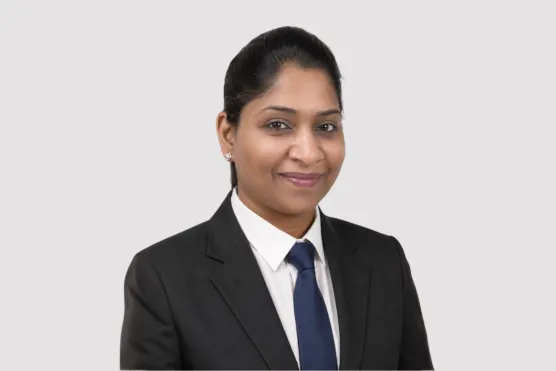
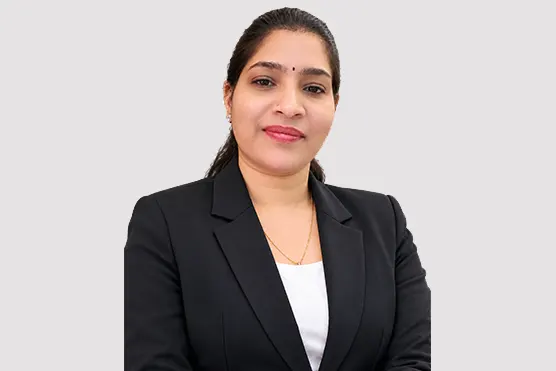
sdgvdsg

Changed region(s): [[0.214, 0.0, 0.795, 1.0], [0.3975, 0.6819, 0.4281, 0.7412], [0.3669, 0.6226, 0.3975, 0.6523]]

diff --git a/digitalcard/manishsingh/index.html b/digitalcard/manishsingh/index.html
@@ -2821,8 +2821,8 @@
                                             <div style="height:5px;"></div>
                                             <div style="clear:both"></div>
                                             <a href="https://www.facebook.com/Technofra" target="_blank" class="iconButton"><i class="fab fa-facebook-f" style="background:#3b5998;"></i><span>Facebook</span></a>
-                                            <a href="https://x.com/i/flow/login?redirect_after_login=%2FTechnofra_" target="_blank" class="iconButton"><i class="fa fa-twitter" style="background:#1da1f2;"></i><span>Twitter</span></a><a href="https://www.linkedin.com/company/technofra" target="_blank" class="iconButton"><i class="fab fa-linkedin-in" style="background:#0077b5;"></i><span>LinkedIn</span></a>
-                                            <a href="https://www.instagram.com/technofra_company/" target="_blank" class="iconButton"><i class="fab fa-instagram" style="background:#b51ca2;"></i><span>instragram</span></a>
+                                            <a href="https://x.com/Technofra_" target="_blank" class="iconButton"><i class="fa fa-twitter" style="background:#1da1f2;"></i><span>Twitter</span></a><a href="https://www.linkedin.com/company/technofra" target="_blank" class="iconButton"><i class="fab fa-linkedin-in" style="background:#0077b5;"></i><span>LinkedIn</span></a>
+                                            <a href="https://www.instagram.com/technofra.company/" target="_blank" class="iconButton"><i class="fab fa-instagram" style="background:#b51ca2;"></i><span>instragram</span></a>
                                             <a href="https://www.youtube.com/@technofra1" target="_blank" class="iconButton"><i class=" fab fa-brands fa-youtube" style="background:#cb2027;"></i><span>YouTube</span></a>
                                             <div style="height:20px;"></div>
 

diff --git a/email-signature/index.html b/email-signature/index.html
@@ -80,8 +80,8 @@
                 <span class="manish co">Our Social Community</span>
                 <div class="social-media">
                     <a href="https://www.facebook.com/Technofra/" target="_blank" class="scsoc"><img src="https://technofra.com/email-signature/images/1.png" /></a>
-                    <a href="https://www.instagram.com/technofra_company/" target="_blank" class="scsoc"><img src="https://technofra.com/email-signature/images/2.png" /></a>
-                    <a href="https://x.com/technofra" target="_blank" class="scsoc"><img src="https://technofra.com/email-signature/images/3.png" /></a>
+                    <a href="https://www.instagram.com/technofra.company/" target="_blank" class="scsoc"><img src="https://technofra.com/email-signature/images/2.png" /></a>
+                    <a href="https://x.com/Technofra_" target="_blank" class="scsoc"><img src="https://technofra.com/email-signature/images/3.png" /></a>
                     <a href="https://hk.linkedin.com/company/technofra" target="_blank" class="scsoc"><img src="https://technofra.com/email-signature/images/4.png" /></a>
                     <a href="https://www.google.com/search?q=technofra&rlz=1C1CHZN_enIN1022IN1022&oq=technofra&gs_lcrp=EgZjaHJvbWUqCggAEAAY4wIYgAQyCggAEAAY4wIYgAQyBggBEEUYPDIGCAIQRRg8MgYIAxBFGDwyEAgEEC4YrwEYxwEYgAQYjgUyBggFEEUYPDIGCAYQRRhBMgYIBxBFGD3SAQgyNDE1ajBqN6gCALACAA&sourceid=chrome&ie=UTF-8" target="_blank" class="scsoc"><img src="https://technofra.com/email-signature/images/5.png" /></a>
                     <a href="https://wa.me/+919702395473" target="_blank" class="scsoc"><img src="https://technofra.com/email-signature/images/6.png" /></a>

diff --git a/khushiyadav/index.html b/khushiyadav/index.html
@@ -118,7 +118,7 @@
                                     title="FACEBOOK">Facebook</a>
                             </li>
                             <li>
-                                <a href="https://www.instagram.com/technofra_company/"
+                                <a href="https://www.instagram.com/technofra.company/"
                                     class="fa fa-instagram tooltip-social" title="INSTAGRAM">Instagram</a>
                             </li>
                             <li>
@@ -326,7 +326,7 @@
 
                     </div>
                     <div class="platform instagram">
-                        <a href="https://www.instagram.com/technofra_company/">
+                        <a href="https://www.instagram.com/technofra.company/">
                             <i class="fab fa fa-instagram tooltip-social"></i>
                             <p>Instagram</p>
                         </a>

diff --git a/navbar.php b/navbar.php
@@ -388,7 +388,7 @@ $stickyHeaderLogoUrl = $stickyHeaderLogo . '?v=' . $logoAssetVersion;
             <li><a href="https://www.facebook.com/Technofra/" title="Facebook" target="_blank"><i class="fab fa-facebook-f"></i></a></li>
             <li><a href="https://x.com/Technofra_" title="X" target="_blank"><i class="fa-brands fa-x-twitter"></i></a></li>
             <li><a href="https://hk.linkedin.com/company/technofra" title="LinkedIn" target="_blank"><i class="fab fa-linkedin-in"></i></a></li>
-            <li><a href="https://www.instagram.com/technofra.company/" title="Instagram" target="_blank"><i class="fab fa-youtube"></i></a></li>
+            <li><a href="https://www.instagram.com/technofra.company/" title="Instagram" target="_blank"><i class="fab fa-instagram"></i></a></li>
         </ul>
     </div>
 </div>
@@ -436,7 +436,7 @@ $stickyHeaderLogoUrl = $stickyHeaderLogo . '?v=' . $logoAssetVersion;
             <li><a href="https://www.facebook.com/Technofra/" title="Facebook" target="_blank"><i class="fab fa-facebook-f"></i></a></li>
             <li><a href="https://x.com/Technofra_" title="X" target="_blank"><i class="fa-brands fa-x-twitter"></i></a></li>
             <li><a href="https://hk.linkedin.com/company/technofra" title="LinkedIn" target="_blank"><i class="fab fa-linkedin-in"></i></a></li>
-            <li><a href="https://www.instagram.com/technofra.company/" title="Instagram" target="_blank"><i class="fab fa-youtube"></i></a></li>
+            <li><a href="https://www.instagram.com/technofra.company/" title="Instagram" target="_blank"><i class="fab fa-instagram"></i></a></li>
         </ul>
         <a href="contact.php" title="Contact Us" class="ibt-btn ibt-btn-outline-3 ibt-btn-rounded">
             <span>Enquiry Now</span>
@@ -571,7 +571,7 @@ $stickyHeaderLogoUrl = $stickyHeaderLogo . '?v=' . $logoAssetVersion;
                     <li><a href="https://www.facebook.com/Technofra/" title="Facebook" target="_blank"><i class="fab fa-facebook-f"></i></a></li>
                     <li><a href="https://x.com/Technofra_" title="X" target="_blank"><i class="fa-brands fa-x-twitter"></i></a></li>
                     <li><a href="https://hk.linkedin.com/company/technofra" title="LinkedIn" target="_blank"><i class="fab fa-linkedin-in"></i></a></li>
-                    <li><a href="https://www.instagram.com/technofra.company/" title="Instagram" target="_blank"><i class="fab fa-youtube"></i></a></li>
+                    <li><a href="https://www.instagram.com/technofra.company/" title="Instagram" target="_blank"><i class="fab fa-instagram"></i></a></li>
                 </ul>
             </div>
         </div>

diff --git a/footer.php b/footer.php
@@ -80,7 +80,7 @@
                       <li><a href="https://x.com/Technofra_" title="X" target="_blank" rel="noopener"><i class="fab fa-x-twitter"></i></a></li>
                       <li><a href="https://www.linkedin.com/company/technofra/" title="LinkedIn" target="_blank" rel="noopener"><i class="fab fa-linkedin-in"></i></a></li>
                       <li><a href="https://youtube.com/@technofra?si=bSGDnJfZ6HMZd2Uw" title="YouTube" target="_blank" rel="noopener"><i class="fab fa-youtube"></i></a></li>
-                      <li><a href="https://www.instagram.com/technofra/" title="Instagram" target="_blank" rel="noopener"><i class="fab fa-instagram"></i></a></li>
+                      <li><a href="https://www.instagram.com/technofra.company/" title="Instagram" target="_blank" rel="noopener"><i class="fab fa-instagram"></i></a></li>
                   </ul>
               </div>
               <div class="footer-apps4">
